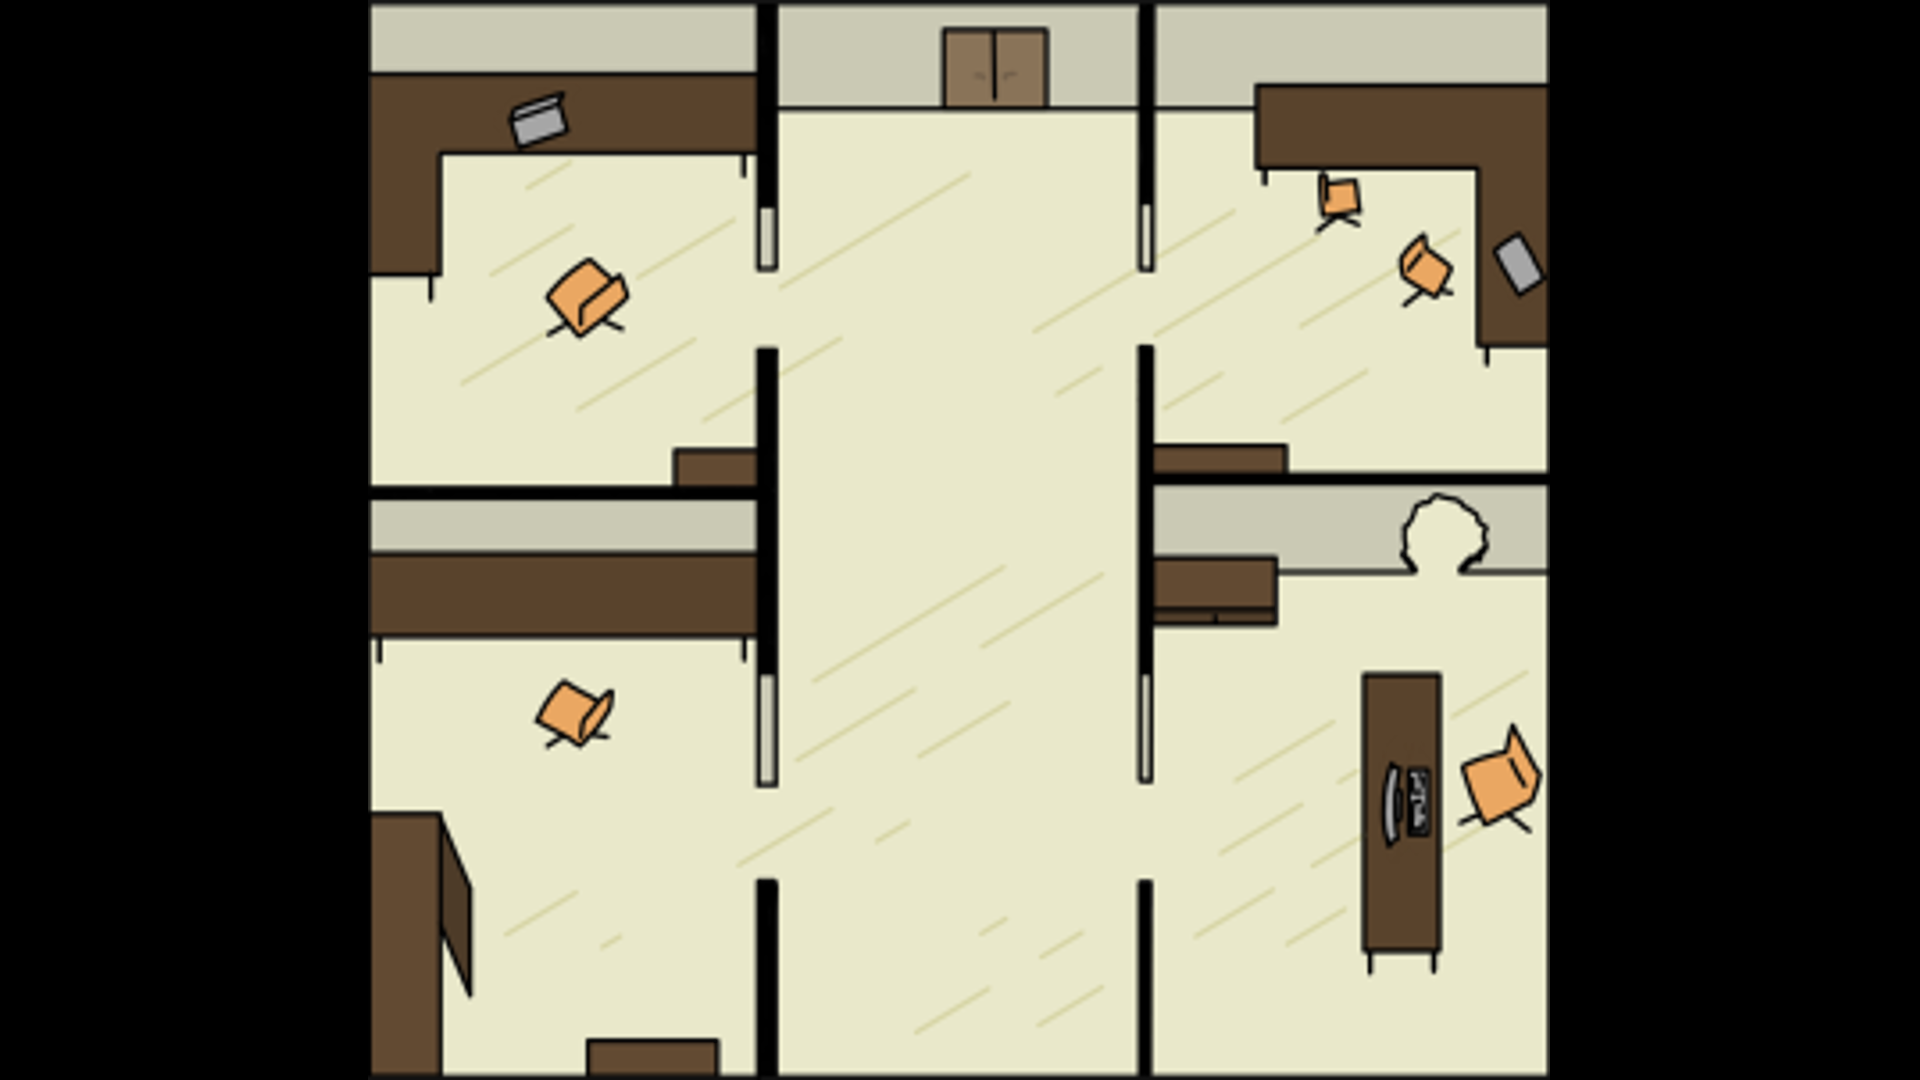
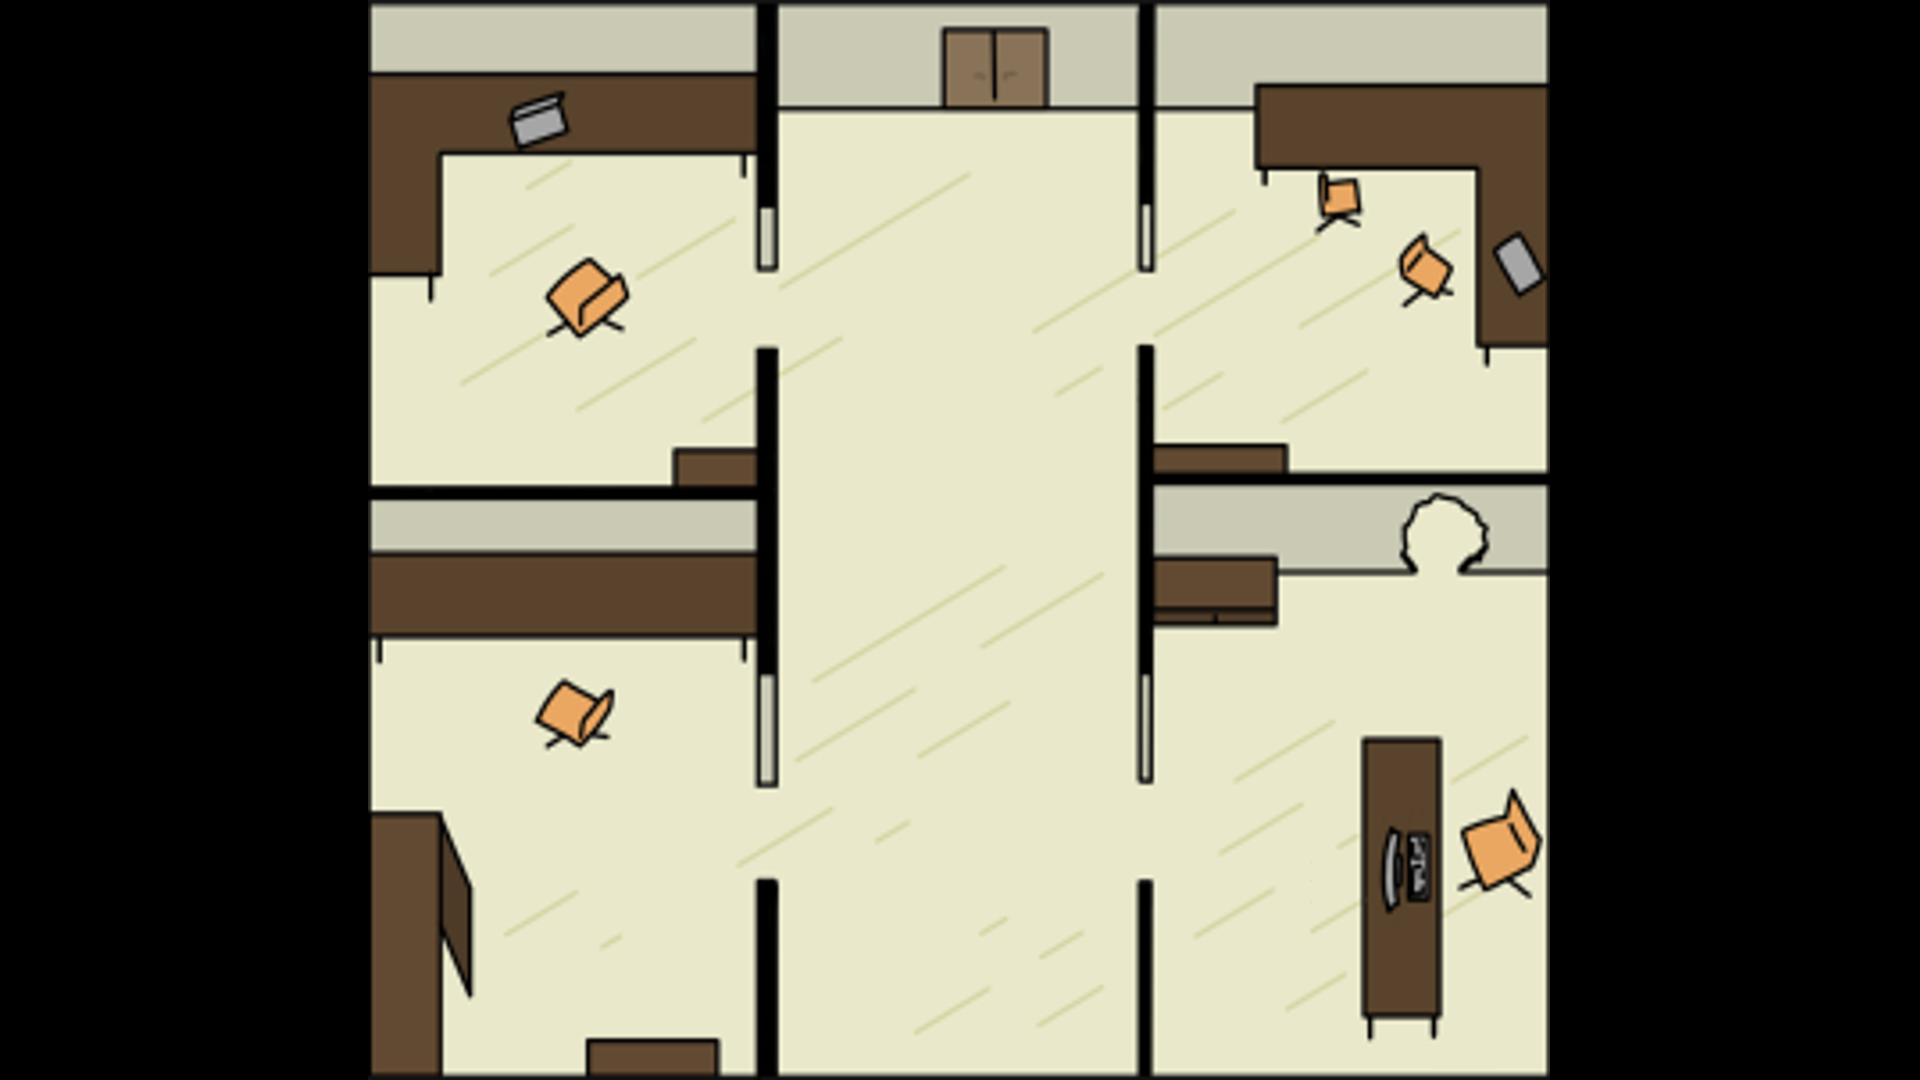
office done

Changed region(s): [[0.6875, 0.6111, 0.8125, 0.9472]]

diff --git a/src/js/rooms/officeRoom1.js b/src/js/rooms/officeRoom1.js
@@ -22,6 +22,14 @@ export class officeRoom1 extends room {
         this.add(left)
         const right = new Barrier(1234,510,10,860)
         this.add(right)
+
+        const topleftdevider = new Barrier(613,115,10,200)
+        this.add(topleftdevider)
+        const middleleftdevider = new Barrier(613,450,10,340)
+        this.add(middleleftdevider)
+        const bottomleftdevider = new Barrier(613,800,10,200)
+        this.add(bottomleftdevider)
+
         const topleftcounter = new Barrier(450,80,350,80)
         this.add(topleftcounter)
         const topleftcounter2 = new Barrier(320,150,70,145)
@@ -30,13 +38,6 @@ export class officeRoom1 extends room {
         this.add(topleftchair)
         const topleftcounter3 = new Barrier(570,370,70,35)
         this.add(topleftcounter3)
-
-        const topleftdevider = new Barrier(613,115,10,200)
-        this.add(topleftdevider)
-        const middleleftdevider = new Barrier(613,450,10,340)
-        this.add(middleleftdevider)
-        const bottomleftdevider = new Barrier(613,800,10,200)
-        this.add(bottomleftdevider)
 
         const bottomleftcounter = new Barrier(450,450,320,130)
         this.add(bottomleftcounter)
@@ -54,12 +55,25 @@ export class officeRoom1 extends room {
         const bottomrightdevider = new Barrier(915,800,10,200)
         this.add(bottomrightdevider)
 
-        const toprightcounter = new Barrier(1234,510,10,860)
+        const toprightcounter = new Barrier(1120,90,230,80)
         this.add(toprightcounter)
-        const toprightchair = new Barrier(767,60,950,10)
+        const toprightcounter2 = new Barrier(1220,200,80,150)
+        this.add(toprightcounter2)
+        const toprightchair = new Barrier(1070,160,40,40)
         this.add(toprightchair)
+        const toprightchair2 = new Barrier(1140,210,40,40)
+        this.add(toprightchair2)
+        const toprighttable = new Barrier(975,425,105,145)
+        this.add(toprighttable)
 
-
+        const rightdevider = new Barrier(1013,420,205,80)
+        this.add(rightdevider)
+        const rightdevider2 = new Barrier(1215,420,50,80)
+        this.add(rightdevider2)
+        const bottomrightchair = new Barrier(1200,680,50,50)
+        this.add(bottomrightchair)
+        const bottomrightcounter = new Barrier(1120,700,60,220)
+        this.add(bottomrightcounter)
     }
     onDeactivate() {
         this.Sjaak.kill()

diff --git a/src/js/rooms/wineCellar.js b/src/js/rooms/wineCellar.js
@@ -1,7 +1,7 @@
 import { Actor, Engine, Vector, TextAlign, Scene } from "excalibur"
 import { mainCharacter } from '../mainCharacter.js'
 import { ghoul } from '../enemies/ghoul.js'
-import { spirit } from '../enemies/spirit.js'
+import { guardian } from '../enemies/guardian.js'
 import { Resources } from '../resources.js'
 import { Barrier } from '../ui/barrier.js'
 import { Tp } from '../ui/tp.js'
@@ -30,10 +30,14 @@ export class wineCellar extends room {
     }
     onDeactivate() {
         this.Sjaak.kill()
+        this.Guardian.kill()
     }
 
     onActivate() {
         this.Sjaak = new mainCharacter(110, 250)
         this.add(this.Sjaak)
+
+        this.Guardian = new guardian(this.Sjaak, 900, 500)
+        this.add(this.Guardian)
     }
 }

diff --git a/src/js/game.js b/src/js/game.js
@@ -53,7 +53,7 @@ export class Game extends Engine {
         this.addScene('officeRoom2', this.officeroom2)
 
 
-        this.goToScene('officeRoom1')
+        this.goToScene('titleMenu')
 
         console.log("Enjoy!")
     }
